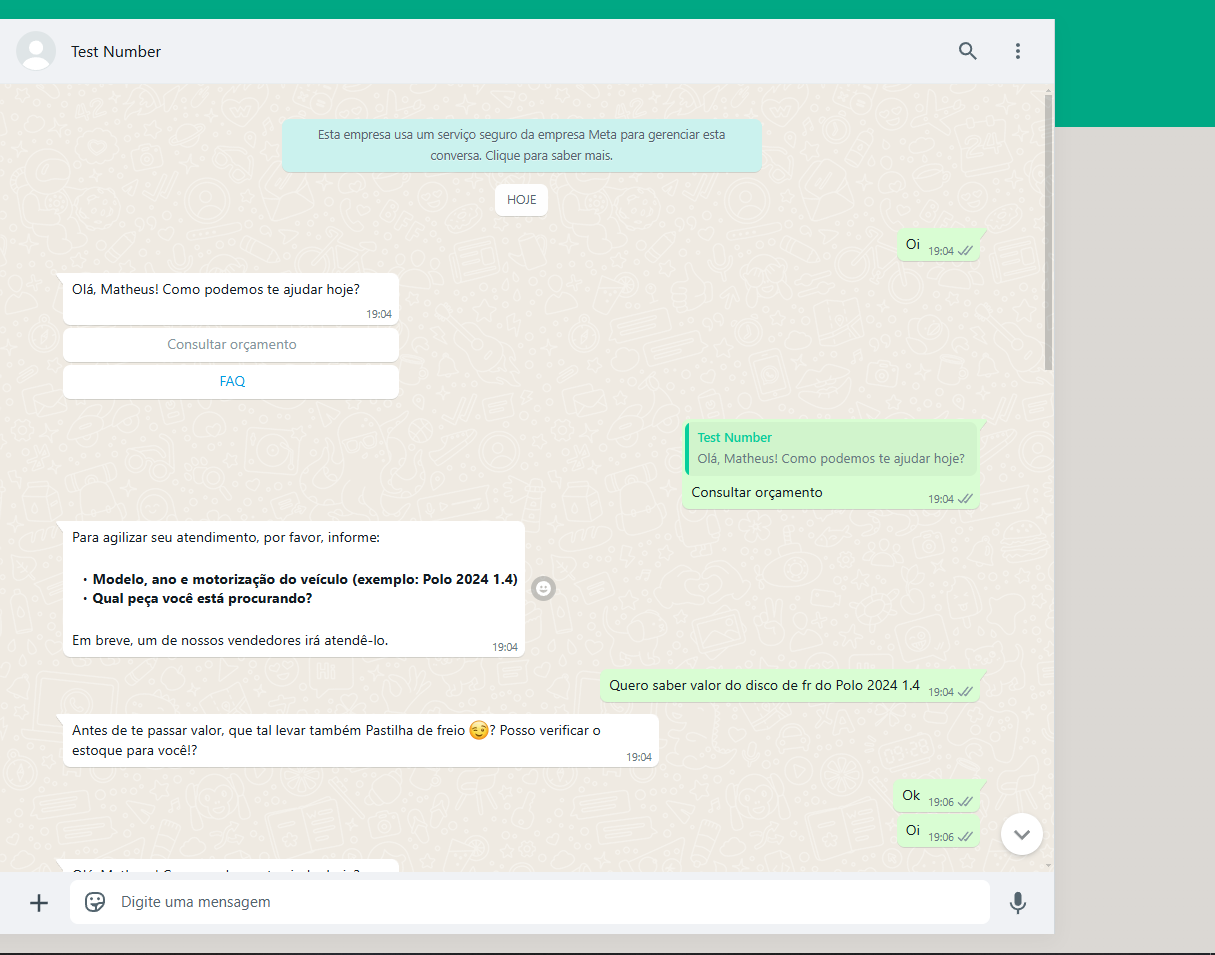
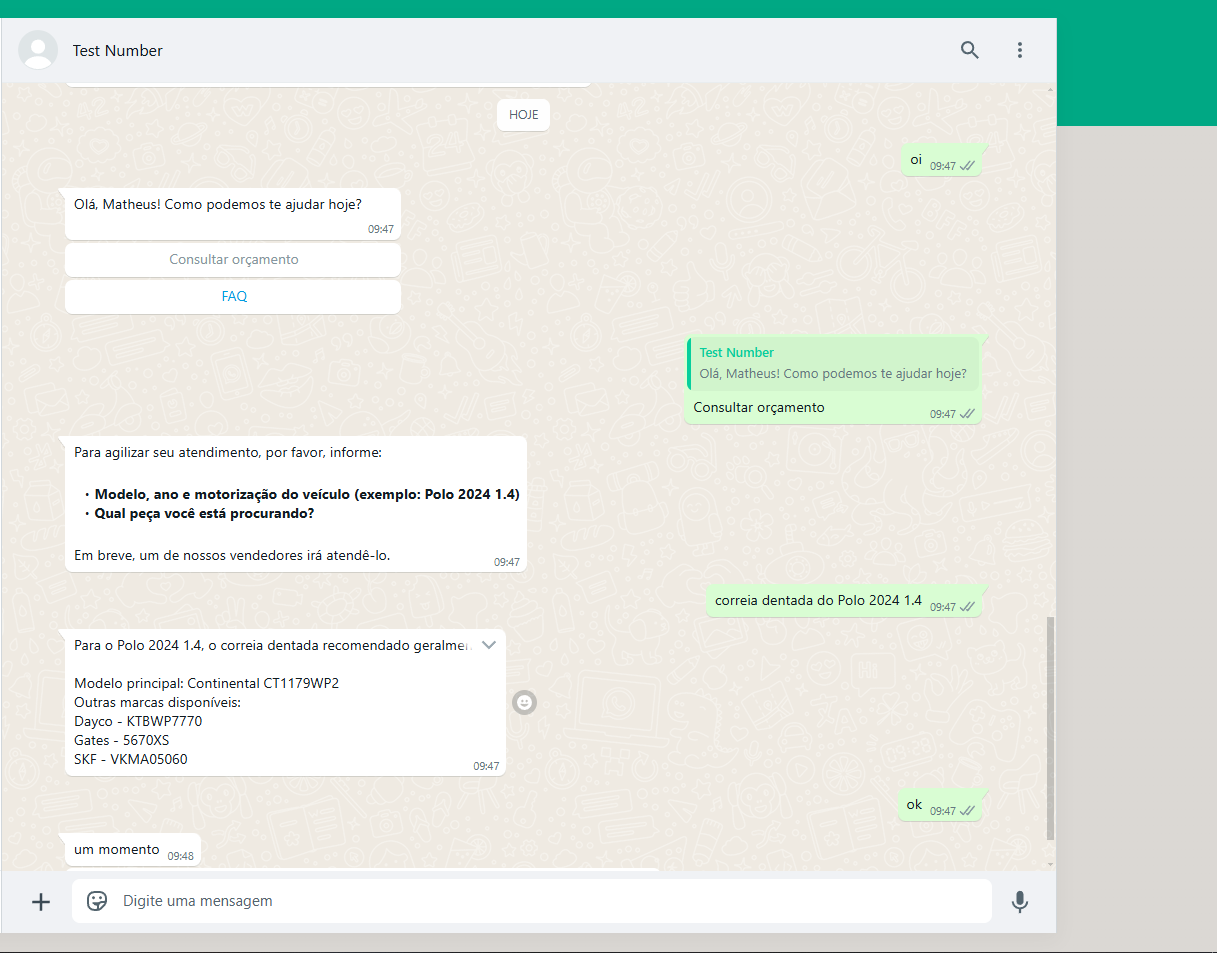
feat: add IA

diff --git a/src/utils/autoPartsKeywords.js b/src/utils/autoPartsKeywords.js
@@ -1,0 +1,98 @@
+const suggests = ["pastilha de freio", "pastilhas", "past. freio", "disco de freio", "disco", "fluido de freio",
+  "amortecedor", "amort.", "mola", "molas", "coifa", "batente","bucha", "pivô", "bieleta", "correia dentada", "tensor", "vela de ignição", "bobina de ignição", "bomba de óleo", "cárter",
+  "embreagem", "kit de embreagem", "cabo de embreagem", "eixo homocinético", "semi-eixo",
+  "radiador", "ventoinha", "bomba d'água", "mangueira do radiador", "válvula termostática",
+  "bateria", "alternador", "motor de partida", "velas", "bobina", "fusível", "relé",
+  "caixa de direção", "barra de direção", "ponta de eixo", "bomba hidráulica", "fluido de direção",
+  "pneu", "pneus", "calota", "aro", "câmara de ar", "estepe", "válvula de ar","para-lama", "paralama", "para-barro", "capô", "parachoque", "porta-malas", "retrovisor",
+  "catalisador", "silencioso", "tubo de escape", "coletor de escape", "flexível de escapamento"
+]
+
+const purchaseKeywords = ["preço", "valor", "quanto", "compra", "orçamento"]
+
+const modelsCars = [
+  // Chevrolet
+  "Agile", "Astra", "Blazer", "Celta", "Classic", "Cobalt", "Cruze", "Equinox", "Kadett", "Malibu", "Corsa",
+  "Meriva", "Montana", "Onix", "Onix Plus", "Prisma", "S10", "Silverado", "Spin", "Tracker", "Trailblazer", "Vectra", "Zafira", 
+
+  // Volkswagen
+  "Amarok", "Bora", "CrossFox", "Fox", "Fusca", "Gol", "Golf", "Jetta", "Kombi", "Nivus", 
+  "Parati", "Passat", "Polo", "Saveiro", "SpaceFox", "T-Cross", "Tiguan", "Touareg", "Up", "Virtus", "Voyage",
+
+  // Fiat
+  "Argo", "Bravo", "Cronos", "Doblo", "Fastback", "Fiorino", "Grand Siena", "Idea", "Marea", "Mobi", 
+  "Palio", "Punto", "Siena", "Strada", "Toro", "Uno", "Pulse",
+
+  // Ford
+  "Bronco", "Courier", "EcoSport", "Edge", "Escort", "Explorer", "F-1000", "F-250", "F-4000", "Fiesta",
+  "Focus", "Fusion", "Ka", "Maverick", "Mustang", "Ranger", "Territory", "Versailles",
+
+  // Toyota
+  "Bandeirante", "Camry", "Corolla", "Corolla Cross", "Etios", "Hilux", "Prius", "RAV4", "Supra", "SW4", "Yaris",
+
+  // Honda
+  "Accord", "Civic", "City", "CR-V", "Fit", "HR-V", "WR-V", "Hrv", "Wrv",
+
+  // Nissan
+  "Frontier", "Kicks", "March", "Sentra", "Versa", "X-Trail",
+
+  // Renault
+  "Captur", "Clio", "Duster", "Fluence", "Kwid", "Logan", "Megane", "Sandero", "Scenic", "Symbol",
+
+  // Peugeot
+  "206", "207", "208", "3008", "307", "308", "408", "5008",
+
+  // Citroën
+  "Aircross", "C3", "C4", "C4 Cactus", "C5", "Jumpy",
+
+  // Hyundai
+  "Azera", "Creta", "Elantra", "HB20", "HB20S", "i30", "Santa Fe", "Tucson", "Veloster",
+
+  // Jeep
+  "Cherokee", "Commander", "Compass", "Grand Cherokee", "Renegade", "Wrangler",
+
+  // Mitsubishi
+  "ASX", "Eclipse Cross", "L200", "Outlander", "Pajero",
+
+  // Mercedes-Benz
+  "A-Class", "C-Class", "E-Class", "GLA", "GLC", "GLE",
+
+  // BMW
+  "X1", "X3", "X5", "Serie 1", "Serie 3", "Serie 5",
+
+  // Audi
+  "A3", "A4", "A5", "Q3", "Q5", "Q7",
+
+  // Outras marcas
+  "Tiggo", "QQ", "J3", "T40", "Lexus NX", "Lexus RX", "Discovery", "Evoque", 
+  "Subaru Forester", "Suzuki Jimny", "XC40", "C60"
+];
+
+function captureVehicle(mensagem) {
+  const regexModelos = new RegExp(`\\b(${modelsCars.join("|")})\\b`, "i");
+  const regexAno = /\b(20\d{2}|\d{2})\b/;
+  const regexMotor = /\b(\d+\.\d+L?|\d+L)\b/;
+
+  const modeloMatch = mensagem.match(regexModelos);
+  const anoMatch = mensagem.match(regexAno);
+  const motorMatch = mensagem.match(regexMotor);
+
+  let ano = anoMatch ? anoMatch[1] : null;
+
+  if (ano && ano.length === 2) {
+    const anoNumero = parseInt(ano, 10);
+    ano = anoNumero >= 50 ? `19${ano}` : `20${ano}`;
+  }
+
+  return {
+    modelo: modeloMatch ? modeloMatch[1] : null,
+    ano: ano,
+    motor: motorMatch ? motorMatch[1] : null
+  };
+}
+
+module.exports = {
+  captureVehicle,
+  suggests,
+  purchaseKeywords
+};

diff --git a/src/route.js b/src/route.js
@@ -9,20 +9,9 @@ const isLogged = require("./middlewares/isLogged");
 const { sendMessage, sendInteractiveMessage } = require("./api/whatsapp");
 const { set, ref, database, remove, update, get, push } = require("./api/firebase");
 const { resetTimeout, startTimeout, stopTimeout } = require("./utils/autoCloseSession");
-const { suggestComplement } = require("./utils/upsellAI");
 const chatController = require("./controllers/chatController");
 const { getFlowConfig } = require("./utils/configLoader");
-
-const suggests = ["pastilha de freio", "pastilhas", "past. freio", "disco de freio", "disco", "fluido de freio",
-  "amortecedor", "amort.", "mola", "molas", "coifa", "batente","bucha", "pivô", "bieleta", "correia dentada", "tensor", "vela de ignição", "bobina de ignição", "bomba de óleo", "cárter",
-  "embreagem", "kit de embreagem", "cabo de embreagem", "eixo homocinético", "semi-eixo",
-  "radiador", "ventoinha", "bomba d'água", "mangueira do radiador", "válvula termostática",
-  "bateria", "alternador", "motor de partida", "velas", "bobina", "fusível", "relé",
-  "caixa de direção", "barra de direção", "ponta de eixo", "bomba hidráulica", "fluido de direção",
-  "pneu", "pneus", "calota", "aro", "câmara de ar", "estepe", "válvula de ar","para-lama", "paralama", "para-barro", "capô", "parachoque", "porta-malas", "retrovisor",
-  "catalisador", "silencioso", "tubo de escape", "coletor de escape", "flexível de escapamento"
-]
-const purchaseKeywords = ["preço", "valor", "quanto", "compra", "orçamento"]
+const handleVehicleInquiry = require("./utils/handleVehicleInquiry");
 
 v1Router.get("/", isLogged, chatController.home);
 v1Router.get("/signup", isLogged, chatController.signup);
@@ -64,12 +53,17 @@ v1Router.post("/webhook", async (req, res) => {
   const empresa = "empresa_x"; // Defina isso dinamicamente se necessário
   const flow = getFlowConfig(empresa);
 
-  if (text && suggests.some(item => text.includes(item))) {
-    const foundKeyword = purchaseKeywords.find(keyword => text.includes(keyword));
+  if (clientState && clientState.step === "Inicio" && text) {
+    const resFind = await handleVehicleInquiry(text);
 
-    if (foundKeyword) {
-      const complement = await suggestComplement(text);
-      await sendMessage(from, `Antes de te passar ${foundKeyword}, que tal levar também ${complement}?`);
+    if (resFind) {
+      const newMessage = { sender: name, text };
+      const newMessage2 = { sender: "Você", text: resFind };
+      const messagesRef = ref(database, `zero/chats/${from}/client/messages`);
+      push(messagesRef, newMessage);
+      push(messagesRef, newMessage2);
+      
+      await sendMessage(from, resFind);
       return res.sendStatus(200);
     }
   }

diff --git a/src/utils/handleVehicleInquiry.js b/src/utils/handleVehicleInquiry.js
@@ -1,0 +1,35 @@
+const { captureVehicle, suggests, purchaseKeywords } = require("./autoPartsKeywords");
+const { suggestComplement } = require("./upsellAI");
+const { suggestPiece } = require("./suggestPiece");
+
+async function handleVehicleInquiry(text) {
+  const vehicleData = captureVehicle(text);
+  const foundPiece = suggests.find(item => text.includes(item));
+  
+  // Se o cliente não mencionou um veículo nem uma peça, retornar mensagem padrão
+  if ((!vehicleData.modelo || !vehicleData.ano || !vehicleData.motor) && !foundPiece) {
+    return false;
+  }
+  
+  // Se o veículo estiver incompleto, pedir mais informações
+  if (!vehicleData.modelo || !vehicleData.ano || !vehicleData.motor) {
+    return "Forneça as informações completas do veículo (modelo, ano e motor).";
+  }
+  
+  // Se a peça não for identificada, pedir para especificar melhor
+  if (!foundPiece) {
+    return "Não consegui identificar a peça desejada. Poderia especificar melhor?";
+  }
+  
+  const foundKeyword = purchaseKeywords.find(keyword => text.includes(keyword));
+
+  if (foundKeyword) {
+    const textComplement = await suggestComplement(`Quero um ${foundPiece} para meu veículo.`);
+    return `Antes de te passar ${foundKeyword}, que tal levar também ${textComplement}?`;
+  } else {
+    const textSuggest = await suggestPiece(`Precisa de ${foundPiece} para o ${vehicleData.modelo} ${vehicleData.ano} ${vehicleData.motor}.`);
+    return textSuggest;
+  }
+}
+
+module.exports = handleVehicleInquiry;

diff --git a/src/utils/suggestPiece.js b/src/utils/suggestPiece.js
@@ -23,7 +23,7 @@ function suggestPiece(mensagem) {
 }
 
 // Simulação de mensagens recebidas
-const mensagemCliente = "Para o Virtus 1.6 MSI 2018, o disco de freio recomendado geralmente é:";
-const sugestao = suggestPiece(mensagemCliente);
+//const mensagemCliente = "Para o Virtus 1.6 MSI 2018, o disco de freio recomendado geralmente é:";
+//const sugestao = suggestPiece(mensagemCliente);
 
-console.log(sugestao); 
+module.exports = { suggestPiece }
